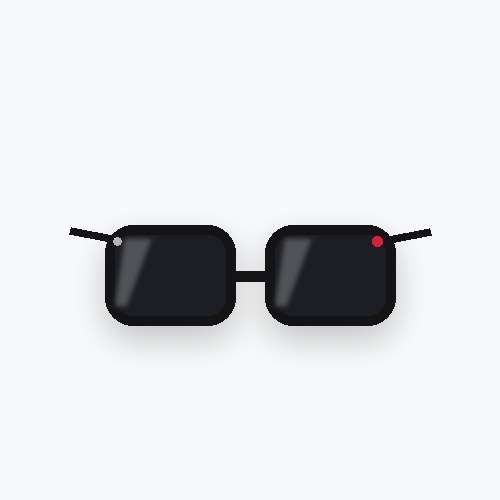
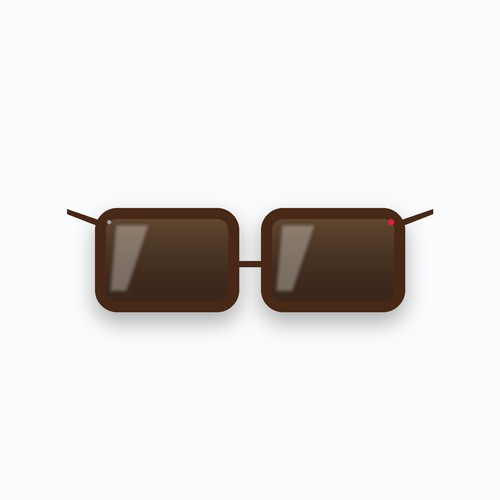
catalog: improve Ray-Ban Meta illustrations (proper Wayfarer proportions)
Generated at 4× supersample with antialiased downscale. Two variants:
shiny black (Gen 4) and Havana brown (Gen 3), each with red Meta-camera dot.

Changed region(s): [[0.12, 0.39, 0.87, 0.69]]

diff --git a/scripts/gen-rayban-images.py b/scripts/gen-rayban-images.py
@@ -1,8 +1,6 @@
 #!/usr/bin/env python3
-"""Генерирует стилизованные картинки очков Ray-Ban Meta для каталога:
-    public/images/products/rayban-meta-gen4.jpg
-    public/images/products/rayban-meta-gen3.jpg
-"""
+"""Стилизованные картинки Wayfarer-style очков для каталога.
+Рендерим в 4× и даунскейлим для антиалиаса."""
 from PIL import Image, ImageDraw, ImageFilter
 from pathlib import Path
 
@@ -10,100 +8,148 @@ ROOT = Path(__file__).resolve().parent.parent
 OUT_DIR = ROOT / "public" / "images" / "products"
 OUT_DIR.mkdir(parents=True, exist_ok=True)
 
+S = 4               # supersample factor
+OUT = 500           # итоговый размер
+W = H = OUT * S
 
-def draw_sunglasses(out_path: Path, frame_color, lens_color, accent=None):
-    W = H = 500
-    img = Image.new("RGB", (W, H), (248, 249, 250))
+
+def draw_wayfarer(out_path: Path, frame, lens, highlight, dot=None):
+    img = Image.new("RGB", (W, H), (250, 251, 252))
+
+    # Базовые координаты в пикселях итоговой картинки (×S при рисовании)
+    cx, cy = OUT // 2, int(OUT * 0.52)
+    lens_w, lens_h = 145, 105
+    gap = 22
+    radius = 22
+    frame_thick = 11
+    temple_ext = 28
+
+    lx_center = cx - gap // 2 - lens_w // 2
+    rx_center = cx + gap // 2 + lens_w // 2
+
+    def box(center_x):
+        return (
+            (center_x - lens_w // 2) * S, (cy - lens_h // 2) * S,
+            (center_x + lens_w // 2) * S, (cy + lens_h // 2) * S,
+        )
+    L, R = box(lx_center), box(rx_center)
+
+    # ── Тень под очками ──────────────────────────────────────────
+    sh = Image.new("RGBA", (W, H), (0, 0, 0, 0))
+    sd = ImageDraw.Draw(sh)
+    sh_off = 10 * S
+    for b in (L, R):
+        sd.rounded_rectangle((b[0], b[1] + sh_off, b[2], b[3] + sh_off),
+                             radius=radius * S, fill=(0, 0, 0, 80))
+    sh = sh.filter(ImageFilter.GaussianBlur(radius=10 * S))
+    img = Image.alpha_composite(img.convert("RGBA"), sh).convert("RGB")
     draw = ImageDraw.Draw(img)
 
-    # Геометрия: два округлых "квадрата" линзы + перемычка + дужки
-    cx, cy = W // 2, int(H * 0.55)
-    lens_w = 130
-    lens_h = 100
-    gap = 30                 # перемычка
-    radius = 28              # скругление линзы
+    # ── Перемычка ────────────────────────────────────────────────
+    bt = 6 * S
+    by = (cy + 4) * S
+    draw.rectangle((L[2] - 2 * S, by - bt // 2, R[0] + 2 * S, by + bt // 2),
+                   fill=frame)
 
-    left_box = (cx - gap // 2 - lens_w, cy - lens_h // 2,
-                cx - gap // 2,          cy + lens_h // 2)
-    right_box = (cx + gap // 2,         cy - lens_h // 2,
-                 cx + gap // 2 + lens_w, cy + lens_h // 2)
-
-    # Тонкая мягкая тень
-    shadow = Image.new("RGBA", (W, H), (0, 0, 0, 0))
-    sdraw = ImageDraw.Draw(shadow)
-    for box in (left_box, right_box):
-        sdraw.rounded_rectangle((box[0], box[1] + 14, box[2], box[3] + 14),
-                                radius=radius, fill=(0, 0, 0, 55))
-    shadow = shadow.filter(ImageFilter.GaussianBlur(radius=16))
-    img.paste(Image.alpha_composite(img.convert("RGBA"), shadow).convert("RGB"))
-    draw = ImageDraw.Draw(img)
-
-    # Перемычка (тонкая)
-    bridge_y = cy
-    draw.rectangle((left_box[2], bridge_y - 4, right_box[0], bridge_y + 6),
-                   fill=frame_color)
-
-    # Дужки (исходят из верхних углов линз наружу)
-    temple_w = 8
+    # ── Дужки (наружу от верхних углов линз) ─────────────────────
     # Левая дужка
-    draw.line((left_box[0] + 6, left_box[1] + 14, left_box[0] - 35, left_box[1] + 6),
-              fill=frame_color, width=temple_w)
+    draw.polygon([
+        (L[0] + 4 * S, L[1] + 12 * S),
+        (L[0] + 8 * S, L[1] + 20 * S),
+        (L[0] - temple_ext * S, L[1] + 6 * S),
+        (L[0] - temple_ext * S, L[1] + 1 * S),
+    ], fill=frame)
     # Правая дужка
-    draw.line((right_box[2] - 6, right_box[1] + 14, right_box[2] + 35, right_box[1] + 6),
-              fill=frame_color, width=temple_w)
+    draw.polygon([
+        (R[2] - 4 * S, R[1] + 12 * S),
+        (R[2] - 8 * S, R[1] + 20 * S),
+        (R[2] + temple_ext * S, R[1] + 6 * S),
+        (R[2] + temple_ext * S, R[1] + 1 * S),
+    ], fill=frame)
 
-    # Линзы (фоновая заливка)
-    for box in (left_box, right_box):
-        draw.rounded_rectangle(box, radius=radius, fill=lens_color)
-    # Рамка вокруг линз
-    for box in (left_box, right_box):
-        draw.rounded_rectangle(box, radius=radius, outline=frame_color, width=10)
+    # ── Линзы: заливка + вертикальный градиент ──────────────────
+    lens_layer = Image.new("RGBA", (W, H), (0, 0, 0, 0))
+    ld = ImageDraw.Draw(lens_layer)
+    for b in (L, R):
+        ld.rounded_rectangle(b, radius=radius * S, fill=lens + (255,))
 
-    # Блик в верхней части линз (диагональная белая полоса)
+    # Лёгкий градиент-блеск сверху
+    grad = Image.new("RGBA", (W, H), (0, 0, 0, 0))
+    gd = ImageDraw.Draw(grad)
+    for b in (L, R):
+        steps = 30
+        for i in range(steps):
+            y0 = b[1] + (b[3] - b[1]) * i // steps
+            y1 = b[1] + (b[3] - b[1]) * (i + 1) // steps
+            alpha = int(80 * (1 - i / steps) ** 2)
+            gd.rectangle((b[0], y0, b[2], y1), fill=highlight + (alpha,))
+
+    mask = Image.new("L", (W, H), 0)
+    md = ImageDraw.Draw(mask)
+    for b in (L, R):
+        md.rounded_rectangle(b, radius=radius * S, fill=255)
+
+    grad_masked = Image.new("RGBA", (W, H), (0, 0, 0, 0))
+    grad_masked.paste(grad, (0, 0), mask)
+    lens_layer = Image.alpha_composite(lens_layer, grad_masked)
+    img = Image.alpha_composite(img.convert("RGBA"), lens_layer).convert("RGB")
+    draw = ImageDraw.Draw(img)
+
+    # ── Толстая Wayfarer-рамка ───────────────────────────────────
+    for b in (L, R):
+        draw.rounded_rectangle(b, radius=radius * S,
+                               outline=frame, width=frame_thick * S)
+
+    # ── Диагональный блик внутри линз ────────────────────────────
     gloss = Image.new("RGBA", (W, H), (0, 0, 0, 0))
-    gdraw = ImageDraw.Draw(gloss)
-    for box in (left_box, right_box):
-        gdraw.polygon([
-            (box[0] + 18, box[1] + 12),
-            (box[0] + 48, box[1] + 12),
-            (box[0] + 22, box[3] - 18),
-            (box[0] + 8,  box[3] - 18),
-        ], fill=(255, 255, 255, 60))
-    gloss = gloss.filter(ImageFilter.GaussianBlur(radius=3))
-    img = Image.alpha_composite(img.convert("RGBA"), gloss).convert("RGB")
+    gd2 = ImageDraw.Draw(gloss)
+    for b in (L, R):
+        gd2.polygon([
+            (b[0] + 20 * S, b[1] + 16 * S),
+            (b[0] + 55 * S, b[1] + 16 * S),
+            (b[0] + 32 * S, b[3] - 20 * S),
+            (b[0] + 14 * S, b[3] - 20 * S),
+        ], fill=(255, 255, 255, 80))
+    gloss = gloss.filter(ImageFilter.GaussianBlur(radius=2 * S))
+    gloss_m = Image.new("RGBA", (W, H), (0, 0, 0, 0))
+    gloss_m.paste(gloss, (0, 0), mask)
+    img = Image.alpha_composite(img.convert("RGBA"), gloss_m).convert("RGB")
+    draw = ImageDraw.Draw(img)
 
-    # Акцент Meta-точка (если задана)
-    if accent:
-        adraw = ImageDraw.Draw(img)
-        r = 5
-        # маленькая точка-индикатор в правом верхнем углу правой линзы (камера)
-        ax = right_box[2] - 18
-        ay = right_box[1] + 16
-        adraw.ellipse((ax - r, ay - r, ax + r, ay + r), fill=accent)
-        # маленькая точка слева (вторая камера / LED)
-        ax2 = left_box[0] + 12
-        ay2 = left_box[1] + 16
-        adraw.ellipse((ax2 - r + 1, ay2 - r + 1, ax2 + r - 1, ay2 + r - 1),
-                      fill=(180, 180, 180))
+    # ── Точка-индикатор камеры (Meta-style) ──────────────────────
+    if dot:
+        r = 3 * S
+        ax = R[2] - 14 * S
+        ay = R[1] + 14 * S
+        draw.ellipse((ax - r, ay - r, ax + r, ay + r), fill=dot)
+        # На другой линзе — серая "вторая камера"
+        ax2 = L[0] + 14 * S
+        ay2 = L[1] + 14 * S
+        rr = r - S
+        draw.ellipse((ax2 - rr, ay2 - rr, ax2 + rr, ay2 + rr),
+                     fill=(160, 160, 165))
 
-    img.save(out_path, "JPEG", quality=88, optimize=True)
+    final = img.resize((OUT, OUT), Image.LANCZOS)
+    final.save(out_path, "JPEG", quality=90, optimize=True, progressive=True)
     print(f"  ✓ {out_path.relative_to(ROOT)}")
 
 
-# Ray-Ban Meta (2025) — глянцевый чёрный с тёмно-серыми линзами + индикатор
-draw_sunglasses(
+# Glasses 2025 — Shiny Black
+draw_wayfarer(
     OUT_DIR / "rayban-meta-gen4.jpg",
-    frame_color=(15, 15, 17),
-    lens_color=(38, 42, 52),
-    accent=(220, 30, 60),       # Meta-красный индикатор
+    frame=(12, 13, 17),
+    lens=(34, 38, 50),
+    highlight=(160, 170, 200),
+    dot=(225, 30, 60),
 )
 
-# Ray-Ban Meta Smart Glasses — классический Wayfarer Shiny Black, чёрные линзы
-draw_sunglasses(
+# Smart Glasses Gen3 — Shiny Havana (тёплый коричневый)
+draw_wayfarer(
     OUT_DIR / "rayban-meta-gen3.jpg",
-    frame_color=(20, 20, 22),
-    lens_color=(28, 30, 36),
-    accent=(220, 30, 60),
+    frame=(72, 40, 22),
+    lens=(58, 38, 26),
+    highlight=(210, 170, 110),
+    dot=(225, 30, 60),
 )
 
 print("done")